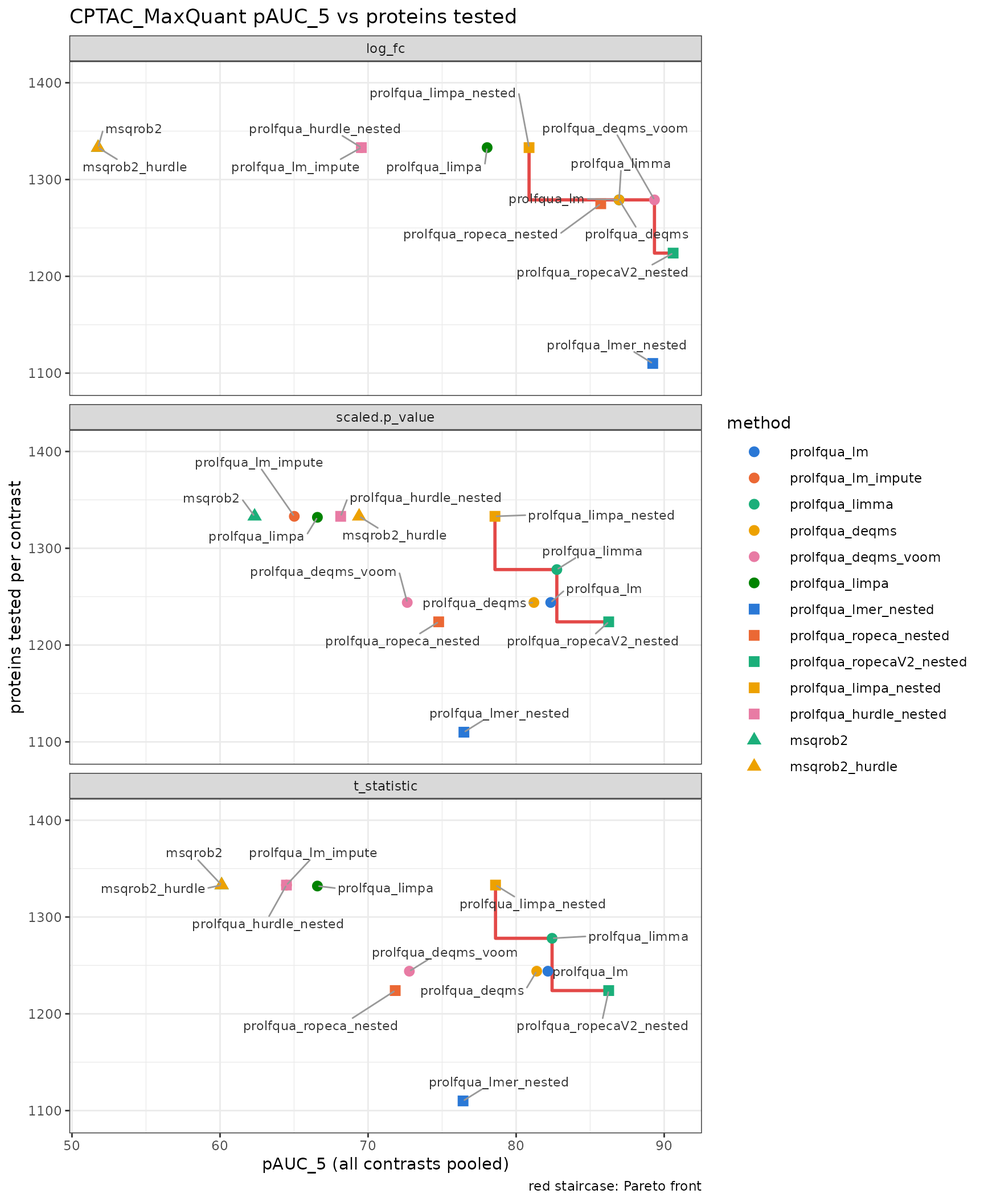
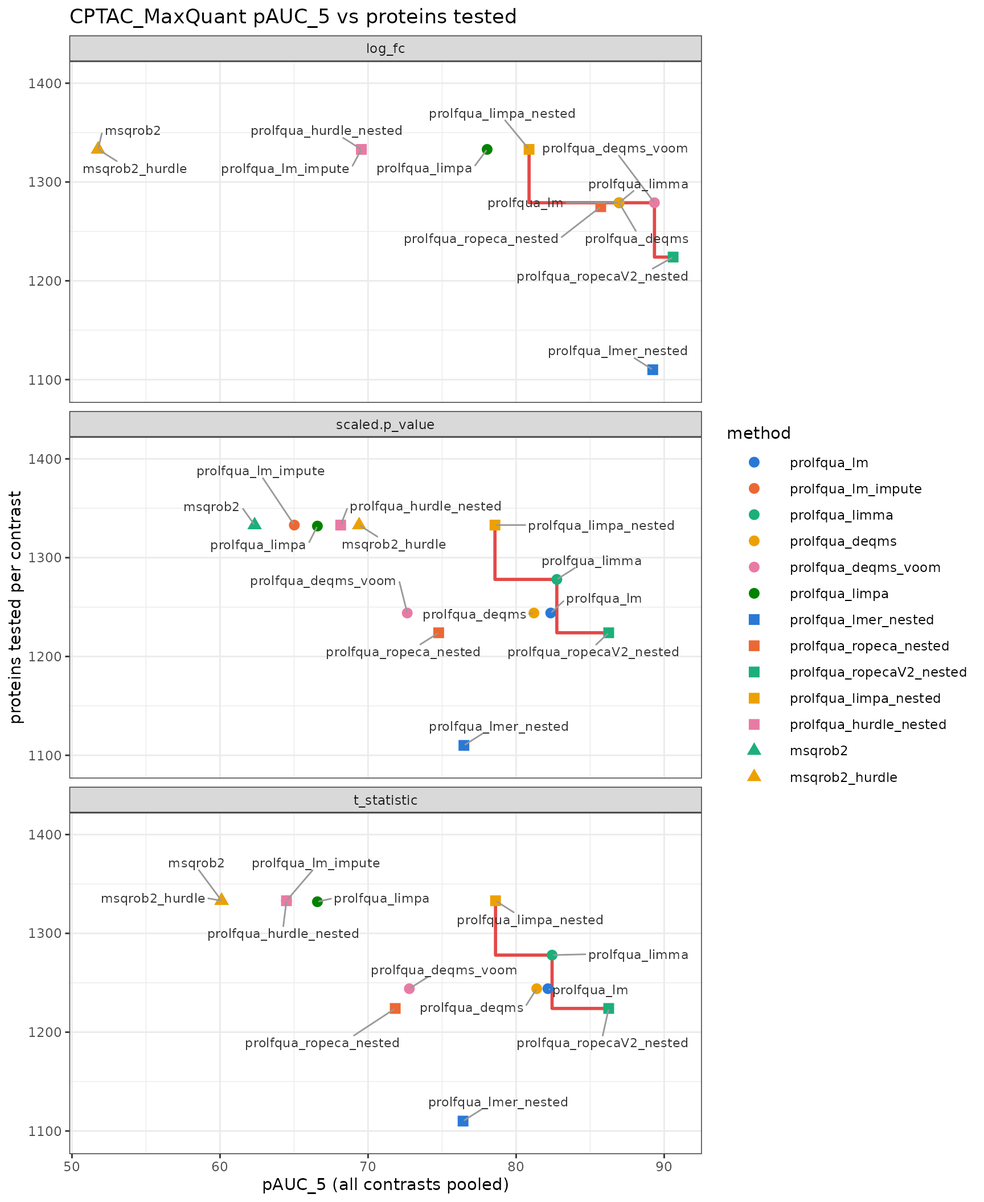
Deploying to gh-pages from @ prolfqua/prolfquabenchmark@442d6d65c62803b6adb22e1c96397cf4f99767e1 🚀

diff --git a/articles/Benchmark_results.html b/articles/Benchmark_results.html
@@ -92,41 +92,44 @@ Wolski</h4>
 
     
     
-<p>The benchmark pipeline (<code>make benchmark</code>,
+<p>The benchmark pipeline (<code>make benchmark</code>;
 <code>workflow/Snakefile</code>, <code>config/config.yaml</code>)
-prepares each dataset once, fits every method to it, and scores how well
-each method ranks the proteins with a known change (E. coli spiked into
-a human background in IonStar, UPS1 spiked into yeast in CPTAC) above
-the unchanged ones. This vignette reads only the tables the pipeline
-exports to <code>inst/extdata</code>.</p>
+prepares each dataset once, fits every method to the input it needs, and
+scores how well each method ranks proteins with a known change above
+unchanged ones: E. coli spiked into a human background in IonStar, UPS1
+spiked into yeast in CPTAC. The tables and figures come from the files
+the pipeline exports to <code>inst/extdata</code>, so this page renders
+without data downloads.</p>
 <ul>
-<li>Scores: AUC, partial AUC up to a false positive rate of 0.1
-(pAUC_10) on a 0–100 scale, all contrasts pooled, for the rankings by
-fold change (<code>log_fc</code>), t statistic
-(<code>t_statistic</code>) and p-value with the sign of the fold change
-(<code>scaled.p_value</code>)</li>
+<li>Ranking scores: fold change (<code>log_fc</code>), p-value signed by
+the fold change (<code>scaled.p_value</code>), t statistic
+(<code>t_statistic</code>)</li>
+<li>AUC, pAUC_5, pAUC_10: area under the ROC curve, and partial area up
+to a false positive rate of 0.05 or 0.1, on a 0 to 100 scale, with all
+contrasts of a dataset pooled</li>
+<li>Proteins tested: proteins with a result in a contrast, averaged over
+the contrasts. Each method is scored on the proteins it tests, so pAUC_5
+is plotted against this count, as in ProteoBench</li>
+<li>Pareto front (red): the methods no other method beats on both pAUC_5
+and proteins tested</li>
 <li>Level: <code>protein</code> (model fitted to protein abundances),
 <code>peptide</code> (model fitted to peptides, one result per protein),
 <code>protein + peptide</code> (hurdle: intensity on proteins, detection
 on peptides)</li>
-<li>FDP vs FDR: the false discovery proportion at each nominal FDR; on
-the diagonal the FDR is calibrated</li>
-<li>Proteins tested vs pAUC_5 (as in ProteoBench): each method scores
-only the proteins it tests, so the plot shows the partial AUC up to a
-false positive rate of 0.05 (x) against the number of proteins tested
-per contrast (y); best is top right, and the red staircase is the Pareto
-front: the methods no other method beats in both</li>
-<li>Line type and point shape: solid lines and circles for the prolfqua
-protein models, long dashes and squares for the prolfqua peptide models
-(nested and hurdle), short dashes and triangles for the external tools;
-a method has the same colour in every plot</li>
+<li>FDP vs FDR: the false discovery proportion at each nominal FDR; a
+calibrated FDR lies on the diagonal</li>
+<li>Encoding: solid lines and circles for prolfqua protein models, long
+dashes and squares for prolfqua peptide models (nested and hurdle),
+short dashes and triangles for external tools; each method keeps its
+colour in every figure</li>
 </ul>
 <div class="section level2">
 <h2 id="methods">Methods<a class="anchor" aria-label="anchor" href="#methods"></a>
 </h2>
 <table class="table">
-<caption>Fitted methods; fit_seconds: wall time of the fit job (jobs ran
-in parallel).</caption>
+<caption>Methods fitted to each dataset, with tool version, model level,
+the input the method fits and a short description. fit_seconds is the
+wall time of the fit job; jobs ran in parallel.</caption>
 <colgroup>
 <col width="11%">
 <col width="11%">
@@ -710,10 +713,27 @@ weighted by the number of peptides</li>
 <li>prolfqua peptide models and msqrob2: the normalized peptides
 (msqrob2 median-polishes them itself)</li>
 </ul>
-<img src="Benchmark_results_files/figure-html/unnamed-chunk-6-1.png" class="r-plt" alt="" width="864"><table class="table table table-condensed">
+<div class="figure">
+<img src="Benchmark_results_files/figure-html/unnamed-chunk-6-1.png" class="r-plt" alt="Ranking accuracy against the number of proteins tested on IonStar_MaxQuant. Each point is one method. x: pAUC_5, the partial area under the ROC curve up to a false positive rate of 0.05 (0 to 100), all 4 contrasts pooled; the ROC curve separates ECOLI proteins (changed) from HUMAN proteins (unchanged). y: proteins with a result, averaged over the contrasts. Panels rank proteins by fold change (log_fc), by p-value signed by the fold change (scaled.p_value) and by t statistic. Circles are prolfqua protein models, squares prolfqua peptide models, triangles external tools. The red staircase is the Pareto front: no other method has both a higher pAUC_5 and more proteins tested." width="864"><p class="caption">
+Ranking accuracy against the number of proteins tested on
+IonStar_MaxQuant. Each point is one method. x: pAUC_5, the partial area
+under the ROC curve up to a false positive rate of 0.05 (0 to 100), all
+4 contrasts pooled; the ROC curve separates ECOLI proteins (changed)
+from HUMAN proteins (unchanged). y: proteins with a result, averaged
+over the contrasts. Panels rank proteins by fold change (log_fc), by
+p-value signed by the fold change (scaled.p_value) and by t statistic.
+Circles are prolfqua protein models, squares prolfqua peptide models,
+triangles external tools. The red staircase is the Pareto front: no
+other method has both a higher pAUC_5 and more proteins tested.
+</p>
+</div>
+<table class="table table table-condensed">
 <caption>
-IonStar_MaxQuant: all contrasts pooled, sorted by pAUC_10 of
-scaled.p_value; contrasts computed: protein and contrast pairs with a
+Ranking scores on IonStar_MaxQuant, all 4 contrasts pooled, sorted by
+pAUC_10 of scaled.p_value. AUC is the area under the ROC curve and
+pAUC_10 the partial area up to a false positive rate of 0.1, both on a 0
+to 100 scale, for ranking by fold change, scaled p-value and t
+statistic. Contrasts computed: protein and contrast pairs with a
 p-value.
 </caption>
 <thead><tr>
@@ -1125,7 +1145,28 @@ protein
 </tr>
 </tbody>
 </table>
-<p><img src="Benchmark_results_files/figure-html/unnamed-chunk-7-1.png" class="r-plt" alt="" width="864"><img src="Benchmark_results_files/figure-html/unnamed-chunk-8-1.png" class="r-plt" alt="" width="864"></p>
+<div class="figure">
+<img src="Benchmark_results_files/figure-html/unnamed-chunk-7-1.png" class="r-plt" alt="ROC curves on IonStar_MaxQuant, all 4 contrasts pooled. y: fraction of ECOLI proteins (changed) ranked above a threshold, the true positive rate; x: fraction of HUMAN proteins (unchanged) above it, the false positive rate, shown up to 0.2. One curve per method; panels rank by fold change, scaled p-value and t statistic. Solid lines are prolfqua protein models, long dashes prolfqua peptide models, short dashes external tools." width="864"><p class="caption">
+ROC curves on IonStar_MaxQuant, all 4 contrasts pooled. y: fraction of
+ECOLI proteins (changed) ranked above a threshold, the true positive
+rate; x: fraction of HUMAN proteins (unchanged) above it, the false
+positive rate, shown up to 0.2. One curve per method; panels rank by
+fold change, scaled p-value and t statistic. Solid lines are prolfqua
+protein models, long dashes prolfqua peptide models, short dashes
+external tools.
+</p>
+</div>
+<div class="figure">
+<img src="Benchmark_results_files/figure-html/unnamed-chunk-8-1.png" class="r-plt" alt="Calibration of the FDR each method reports on IonStar_MaxQuant, all 4 contrasts pooled. x: nominal FDR threshold; y: fraction of HUMAN proteins (unchanged) among the proteins called significant at that threshold, the false discovery proportion. One curve per method, line types as in the ROC figure. A calibrated FDR lies on the grey diagonal; curves above it are anti-conservative, with more false discoveries than the FDR promises." width="864"><p class="caption">
+Calibration of the FDR each method reports on IonStar_MaxQuant, all 4
+contrasts pooled. x: nominal FDR threshold; y: fraction of HUMAN
+proteins (unchanged) among the proteins called significant at that
+threshold, the false discovery proportion. One curve per method, line
+types as in the ROC figure. A calibrated FDR lies on the grey diagonal;
+curves above it are anti-conservative, with more false discoveries than
+the FDR promises.
+</p>
+</div>
 </div>
 <div class="section level2">
 <h2 id="ionstar_maxquant_protein">IonStar_MaxQuant_protein<a class="anchor" aria-label="anchor" href="#ionstar_maxquant_protein"></a>
@@ -1140,10 +1181,27 @@ protein
 <li>Every method fits this protein table; the number of peptides weights
 the prolfqua fits and is the DEqMS count</li>
 </ul>
-<img src="Benchmark_results_files/figure-html/unnamed-chunk-9-1.png" class="r-plt" alt="" width="864"><table class="table table table-condensed">
+<div class="figure">
+<img src="Benchmark_results_files/figure-html/unnamed-chunk-9-1.png" class="r-plt" alt="Ranking accuracy against the number of proteins tested on IonStar_MaxQuant_protein. Each point is one method. x: pAUC_5, the partial area under the ROC curve up to a false positive rate of 0.05 (0 to 100), all 4 contrasts pooled; the ROC curve separates ECOLI proteins (changed) from HUMAN proteins (unchanged). y: proteins with a result, averaged over the contrasts. Panels rank proteins by fold change (log_fc), by p-value signed by the fold change (scaled.p_value) and by t statistic. Circles are prolfqua protein models, squares prolfqua peptide models, triangles external tools. The red staircase is the Pareto front: no other method has both a higher pAUC_5 and more proteins tested." width="864"><p class="caption">
+Ranking accuracy against the number of proteins tested on
+IonStar_MaxQuant_protein. Each point is one method. x: pAUC_5, the
+partial area under the ROC curve up to a false positive rate of 0.05 (0
+to 100), all 4 contrasts pooled; the ROC curve separates ECOLI proteins
+(changed) from HUMAN proteins (unchanged). y: proteins with a result,
+averaged over the contrasts. Panels rank proteins by fold change
+(log_fc), by p-value signed by the fold change (scaled.p_value) and by t
+statistic. Circles are prolfqua protein models, squares prolfqua peptide
+models, triangles external tools. The red staircase is the Pareto front:
+no other method has both a higher pAUC_5 and more proteins tested.
+</p>
+</div>
+<table class="table table table-condensed">
 <caption>
-IonStar_MaxQuant_protein: all contrasts pooled, sorted by pAUC_10 of
-scaled.p_value; contrasts computed: protein and contrast pairs with a
+Ranking scores on IonStar_MaxQuant_protein, all 4 contrasts pooled,
+sorted by pAUC_10 of scaled.p_value. AUC is the area under the ROC curve
+and pAUC_10 the partial area up to a false positive rate of 0.1, both on
+a 0 to 100 scale, for ranking by fold change, scaled p-value and t
+statistic. Contrasts computed: protein and contrast pairs with a
 p-value.
 </caption>
 <thead><tr>
@@ -1410,7 +1468,28 @@ protein
 </tr>
 </tbody>
 </table>
-<p><img src="Benchmark_results_files/figure-html/unnamed-chunk-10-1.png" class="r-plt" alt="" width="864"><img src="Benchmark_results_files/figure-html/unnamed-chunk-11-1.png" class="r-plt" alt="" width="864"></p>
+<div class="figure">
+<img src="Benchmark_results_files/figure-html/unnamed-chunk-10-1.png" class="r-plt" alt="ROC curves on IonStar_MaxQuant_protein, all 4 contrasts pooled. y: fraction of ECOLI proteins (changed) ranked above a threshold, the true positive rate; x: fraction of HUMAN proteins (unchanged) above it, the false positive rate, shown up to 0.2. One curve per method; panels rank by fold change, scaled p-value and t statistic. Solid lines are prolfqua protein models, long dashes prolfqua peptide models, short dashes external tools." width="864"><p class="caption">
+ROC curves on IonStar_MaxQuant_protein, all 4 contrasts pooled. y:
+fraction of ECOLI proteins (changed) ranked above a threshold, the true
+positive rate; x: fraction of HUMAN proteins (unchanged) above it, the
+false positive rate, shown up to 0.2. One curve per method; panels rank
+by fold change, scaled p-value and t statistic. Solid lines are prolfqua
+protein models, long dashes prolfqua peptide models, short dashes
+external tools.
+</p>
+</div>
+<div class="figure">
+<img src="Benchmark_results_files/figure-html/unnamed-chunk-11-1.png" class="r-plt" alt="Calibration of the FDR each method reports on IonStar_MaxQuant_protein, all 4 contrasts pooled. x: nominal FDR threshold; y: fraction of HUMAN proteins (unchanged) among the proteins called significant at that threshold, the false discovery proportion. One curve per method, line types as in the ROC figure. A calibrated FDR lies on the grey diagonal; curves above it are anti-conservative, with more false discoveries than the FDR promises." width="864"><p class="caption">
+Calibration of the FDR each method reports on IonStar_MaxQuant_protein,
+all 4 contrasts pooled. x: nominal FDR threshold; y: fraction of HUMAN
+proteins (unchanged) among the proteins called significant at that
+threshold, the false discovery proportion. One curve per method, line
+types as in the ROC figure. A calibrated FDR lies on the grey diagonal;
+curves above it are anti-conservative, with more false discoveries than
+the FDR promises.
+</p>
+</div>
 </div>
 <div class="section level2">
 <h2 id="ionstar_fragpipe_msstats">IonStar_FragPipe_MSstats<a class="anchor" aria-label="anchor" href="#ionstar_fragpipe_msstats"></a>
@@ -1429,10 +1508,27 @@ weighted by the number of peptides</li>
 peptides, its own dataProcess (log2, median equalization, Tukey median
 polish, imputation of censored values)</li>
 </ul>
-<img src="Benchmark_results_files/figure-html/unnamed-chunk-12-1.png" class="r-plt" alt="" width="864"><table class="table table table-condensed">
+<div class="figure">
+<img src="Benchmark_results_files/figure-html/unnamed-chunk-12-1.png" class="r-plt" alt="Ranking accuracy against the number of proteins tested on IonStar_FragPipe_MSstats. Each point is one method. x: pAUC_5, the partial area under the ROC curve up to a false positive rate of 0.05 (0 to 100), all 4 contrasts pooled; the ROC curve separates ECOLI proteins (changed) from HUMAN proteins (unchanged). y: proteins with a result, averaged over the contrasts. Panels rank proteins by fold change (log_fc), by p-value signed by the fold change (scaled.p_value) and by t statistic. Circles are prolfqua protein models, squares prolfqua peptide models, triangles external tools. The red staircase is the Pareto front: no other method has both a higher pAUC_5 and more proteins tested." width="864"><p class="caption">
+Ranking accuracy against the number of proteins tested on
+IonStar_FragPipe_MSstats. Each point is one method. x: pAUC_5, the
+partial area under the ROC curve up to a false positive rate of 0.05 (0
+to 100), all 4 contrasts pooled; the ROC curve separates ECOLI proteins
+(changed) from HUMAN proteins (unchanged). y: proteins with a result,
+averaged over the contrasts. Panels rank proteins by fold change
+(log_fc), by p-value signed by the fold change (scaled.p_value) and by t
+statistic. Circles are prolfqua protein models, squares prolfqua peptide
+models, triangles external tools. The red staircase is the Pareto front:
+no other method has both a higher pAUC_5 and more proteins tested.
+</p>
+</div>
+<table class="table table table-condensed">
 <caption>
-IonStar_FragPipe_MSstats: all contrasts pooled, sorted by pAUC_10 of
-scaled.p_value; contrasts computed: protein and contrast pairs with a
+Ranking scores on IonStar_FragPipe_MSstats, all 4 contrasts pooled,
+sorted by pAUC_10 of scaled.p_value. AUC is the area under the ROC curve
+and pAUC_10 the partial area up to a false positive rate of 0.1, both on
+a 0 to 100 scale, for ranking by fold change, scaled p-value and t
+statistic. Contrasts computed: protein and contrast pairs with a
 p-value.
 </caption>
 <thead><tr>
@@ -1873,7 +1969,28 @@ peptide
 </tr>
 </tbody>
 </table>
-<p><img src="Benchmark_results_files/figure-html/unnamed-chunk-13-1.png" class="r-plt" alt="" width="864"><img src="Benchmark_results_files/figure-html/unnamed-chunk-14-1.png" class="r-plt" alt="" width="864"></p>
+<div class="figure">
+<img src="Benchmark_results_files/figure-html/unnamed-chunk-13-1.png" class="r-plt" alt="ROC curves on IonStar_FragPipe_MSstats, all 4 contrasts pooled. y: fraction of ECOLI proteins (changed) ranked above a threshold, the true positive rate; x: fraction of HUMAN proteins (unchanged) above it, the false positive rate, shown up to 0.2. One curve per method; panels rank by fold change, scaled p-value and t statistic. Solid lines are prolfqua protein models, long dashes prolfqua peptide models, short dashes external tools." width="864"><p class="caption">
+ROC curves on IonStar_FragPipe_MSstats, all 4 contrasts pooled. y:
+fraction of ECOLI proteins (changed) ranked above a threshold, the true
+positive rate; x: fraction of HUMAN proteins (unchanged) above it, the
+false positive rate, shown up to 0.2. One curve per method; panels rank
+by fold change, scaled p-value and t statistic. Solid lines are prolfqua
+protein models, long dashes prolfqua peptide models, short dashes
+external tools.
+</p>
+</div>
+<div class="figure">
+<img src="Benchmark_results_files/figure-html/unnamed-chunk-14-1.png" class="r-plt" alt="Calibration of the FDR each method reports on IonStar_FragPipe_MSstats, all 4 contrasts pooled. x: nominal FDR threshold; y: fraction of HUMAN proteins (unchanged) among the proteins called significant at that threshold, the false discovery proportion. One curve per method, line types as in the ROC figure. A calibrated FDR lies on the grey diagonal; curves above it are anti-conservative, with more false discoveries than the FDR promises." width="864"><p class="caption">
+Calibration of the FDR each method reports on IonStar_FragPipe_MSstats,
+all 4 contrasts pooled. x: nominal FDR threshold; y: fraction of HUMAN
+proteins (unchanged) among the proteins called significant at that
+threshold, the false discovery proportion. One curve per method, line
+types as in the ROC figure. A calibrated FDR lies on the grey diagonal;
+curves above it are anti-conservative, with more false discoveries than
+the FDR promises.
+</p>
+</div>
 </div>
 <div class="section level2">
 <h2 id="ionstar_fragpipe_protein">IonStar_FragPipe_protein<a class="anchor" aria-label="anchor" href="#ionstar_fragpipe_protein"></a>
@@ -1887,10 +2004,27 @@ peptide
 <li>Every method fits this protein table; the number of unique peptides
 weights the prolfqua fits and is the DEqMS count</li>
 </ul>
-<img src="Benchmark_results_files/figure-html/unnamed-chunk-15-1.png" class="r-plt" alt="" width="864"><table class="table table table-condensed">
+<div class="figure">
+<img src="Benchmark_results_files/figure-html/unnamed-chunk-15-1.png" class="r-plt" alt="Ranking accuracy against the number of proteins tested on IonStar_FragPipe_protein. Each point is one method. x: pAUC_5, the partial area under the ROC curve up to a false positive rate of 0.05 (0 to 100), all 4 contrasts pooled; the ROC curve separates ECOLI proteins (changed) from HUMAN proteins (unchanged). y: proteins with a result, averaged over the contrasts. Panels rank proteins by fold change (log_fc), by p-value signed by the fold change (scaled.p_value) and by t statistic. Circles are prolfqua protein models, squares prolfqua peptide models, triangles external tools. The red staircase is the Pareto front: no other method has both a higher pAUC_5 and more proteins tested." width="864"><p class="caption">
+Ranking accuracy against the number of proteins tested on
+IonStar_FragPipe_protein. Each point is one method. x: pAUC_5, the
+partial area under the ROC curve up to a false positive rate of 0.05 (0
+to 100), all 4 contrasts pooled; the ROC curve separates ECOLI proteins
+(changed) from HUMAN proteins (unchanged). y: proteins with a result,
+averaged over the contrasts. Panels rank proteins by fold change
+(log_fc), by p-value signed by the fold change (scaled.p_value) and by t
+statistic. Circles are prolfqua protein models, squares prolfqua peptide
+models, triangles external tools. The red staircase is the Pareto front:
+no other method has both a higher pAUC_5 and more proteins tested.
+</p>
+</div>
+<table class="table table table-condensed">
 <caption>
-IonStar_FragPipe_protein: all contrasts pooled, sorted by pAUC_10 of
-scaled.p_value; contrasts computed: protein and contrast pairs with a
+Ranking scores on IonStar_FragPipe_protein, all 4 contrasts pooled,
+sorted by pAUC_10 of scaled.p_value. AUC is the area under the ROC curve
+and pAUC_10 the partial area up to a false positive rate of 0.1, both on
+a 0 to 100 scale, for ranking by fold change, scaled p-value and t
+statistic. Contrasts computed: protein and contrast pairs with a
 p-value.
 </caption>
 <thead><tr>
@@ -2157,7 +2291,28 @@ protein
 </tr>
 </tbody>
 </table>
-<p><img src="Benchmark_results_files/figure-html/unnamed-chunk-16-1.png" class="r-plt" alt="" width="864"><img src="Benchmark_results_files/figure-html/unnamed-chunk-17-1.png" class="r-plt" alt="" width="864"></p>
+<div class="figure">
+<img src="Benchmark_results_files/figure-html/unnamed-chunk-16-1.png" class="r-plt" alt="ROC curves on IonStar_FragPipe_protein, all 4 contrasts pooled. y: fraction of ECOLI proteins (changed) ranked above a threshold, the true positive rate; x: fraction of HUMAN proteins (unchanged) above it, the false positive rate, shown up to 0.2. One curve per method; panels rank by fold change, scaled p-value and t statistic. Solid lines are prolfqua protein models, long dashes prolfqua peptide models, short dashes external tools." width="864"><p class="caption">
+ROC curves on IonStar_FragPipe_protein, all 4 contrasts pooled. y:
+fraction of ECOLI proteins (changed) ranked above a threshold, the true
+positive rate; x: fraction of HUMAN proteins (unchanged) above it, the
+false positive rate, shown up to 0.2. One curve per method; panels rank
+by fold change, scaled p-value and t statistic. Solid lines are prolfqua
+protein models, long dashes prolfqua peptide models, short dashes
+external tools.
+</p>
+</div>
+<div class="figure">
+<img src="Benchmark_results_files/figure-html/unnamed-chunk-17-1.png" class="r-plt" alt="Calibration of the FDR each method reports on IonStar_FragPipe_protein, all 4 contrasts pooled. x: nominal FDR threshold; y: fraction of HUMAN proteins (unchanged) among the proteins called significant at that threshold, the false discovery proportion. One curve per method, line types as in the ROC figure. A calibrated FDR lies on the grey diagonal; curves above it are anti-conservative, with more false discoveries than the FDR promises." width="864"><p class="caption">
+Calibration of the FDR each method reports on IonStar_FragPipe_protein,
+all 4 contrasts pooled. x: nominal FDR threshold; y: fraction of HUMAN
+proteins (unchanged) among the proteins called significant at that
+threshold, the false discovery proportion. One curve per method, line
+types as in the ROC figure. A calibrated FDR lies on the grey diagonal;
+curves above it are anti-conservative, with more false discoveries than
+the FDR promises.
+</p>
+</div>
 </div>
 <div class="section level2">
 <h2 id="cptac_maxquant">CPTAC_MaxQuant<a class="anchor" aria-label="anchor" href="#cptac_maxquant"></a>
@@ -2173,11 +2328,27 @@ weighted by the number of peptides</li>
 <li>prolfqua peptide models and msqrob2: the normalized peptides
 (msqrob2 median-polishes them itself)</li>
 </ul>
-<img src="Benchmark_results_files/figure-html/unnamed-chunk-18-1.png" class="r-plt" alt="" width="864"><table class="table table table-condensed">
+<div class="figure">
+<img src="Benchmark_results_files/figure-html/unnamed-chunk-18-1.png" class="r-plt" alt="Ranking accuracy against the number of proteins tested on CPTAC_MaxQuant. Each point is one method. x: pAUC_5, the partial area under the ROC curve up to a false positive rate of 0.05 (0 to 100), one contrast; the ROC curve separates UPS proteins (changed) from YEAST proteins (unchanged). y: proteins with a result, averaged over the contrasts. Panels rank proteins by fold change (log_fc), by p-value signed by the fold change (scaled.p_value) and by t statistic. Circles are prolfqua protein models, squares prolfqua peptide models, triangles external tools. The red staircase is the Pareto front: no other method has both a higher pAUC_5 and more proteins tested." width="864"><p class="caption">
+Ranking accuracy against the number of proteins tested on
+CPTAC_MaxQuant. Each point is one method. x: pAUC_5, the partial area
+under the ROC curve up to a false positive rate of 0.05 (0 to 100), one
+contrast; the ROC curve separates UPS proteins (changed) from YEAST
+proteins (unchanged). y: proteins with a result, averaged over the
+contrasts. Panels rank proteins by fold change (log_fc), by p-value
+signed by the fold change (scaled.p_value) and by t statistic. Circles
+are prolfqua protein models, squares prolfqua peptide models, triangles
+external tools. The red staircase is the Pareto front: no other method
+has both a higher pAUC_5 and more proteins tested.
+</p>
+</div>
+<table class="table table table-condensed">
 <caption>
-CPTAC_MaxQuant: all contrasts pooled, sorted by pAUC_10 of
-scaled.p_value; contrasts computed: protein and contrast pairs with a
-p-value.
+Ranking scores on CPTAC_MaxQuant, one contrast, sorted by pAUC_10 of
+scaled.p_value. AUC is the area under the ROC curve and pAUC_10 the
+partial area up to a false positive rate of 0.1, both on a 0 to 100
+scale, for ranking by fold change, scaled p-value and t statistic.
+Contrasts computed: protein and contrast pairs with a p-value.
 </caption>
 <thead><tr>
 <th style="text-align:left;">
@@ -2588,7 +2759,27 @@ protein
 </tr>
 </tbody>
 </table>
-<p><img src="Benchmark_results_files/figure-html/unnamed-chunk-19-1.png" class="r-plt" alt="" width="864"><img src="Benchmark_results_files/figure-html/unnamed-chunk-20-1.png" class="r-plt" alt="" width="864"></p>
+<div class="figure">
+<img src="Benchmark_results_files/figure-html/unnamed-chunk-19-1.png" class="r-plt" alt="ROC curves on CPTAC_MaxQuant, one contrast. y: fraction of UPS proteins (changed) ranked above a threshold, the true positive rate; x: fraction of YEAST proteins (unchanged) above it, the false positive rate, shown up to 0.2. One curve per method; panels rank by fold change, scaled p-value and t statistic. Solid lines are prolfqua protein models, long dashes prolfqua peptide models, short dashes external tools." width="864"><p class="caption">
+ROC curves on CPTAC_MaxQuant, one contrast. y: fraction of UPS proteins
+(changed) ranked above a threshold, the true positive rate; x: fraction
+of YEAST proteins (unchanged) above it, the false positive rate, shown
+up to 0.2. One curve per method; panels rank by fold change, scaled
+p-value and t statistic. Solid lines are prolfqua protein models, long
+dashes prolfqua peptide models, short dashes external tools.
+</p>
+</div>
+<div class="figure">
+<img src="Benchmark_results_files/figure-html/unnamed-chunk-20-1.png" class="r-plt" alt="Calibration of the FDR each method reports on CPTAC_MaxQuant, one contrast. x: nominal FDR threshold; y: fraction of YEAST proteins (unchanged) among the proteins called significant at that threshold, the false discovery proportion. One curve per method, line types as in the ROC figure. A calibrated FDR lies on the grey diagonal; curves above it are anti-conservative, with more false discoveries than the FDR promises." width="864"><p class="caption">
+Calibration of the FDR each method reports on CPTAC_MaxQuant, one
+contrast. x: nominal FDR threshold; y: fraction of YEAST proteins
+(unchanged) among the proteins called significant at that threshold, the
+false discovery proportion. One curve per method, line types as in the
+ROC figure. A calibrated FDR lies on the grey diagonal; curves above it
+are anti-conservative, with more false discoveries than the FDR
+promises.
+</p>
+</div>
 </div>
   </div>
 

diff --git a/news/index.html b/news/index.html
@@ -63,7 +63,7 @@
     <div class="section level2">
 <h2 class="page-header" data-toc-text="0.3.4" id="prolfquabenchmark-034">prolfquabenchmark 0.3.4<a class="anchor" aria-label="anchor" href="#prolfquabenchmark-034"></a></h2>
 <ul><li><p>The benchmarks run in a Snakemake pipeline (<code>workflow/Snakefile</code>, <code>config/config.yaml</code>; <code>make benchmark</code>) instead of in the vignettes. Each dataset is one input file (IonStar MaxQuant peptides.txt and proteinGroups.txt, IonStar FragPipe MSstats.csv and combined_protein.tsv, CPTAC study 6 peptides.txt) and is prepared once, every method (prolfqua facades, MSstats, proDA, msqrob2) is fitted to every dataset that provides its input (peptides, proteins, the search software’s protein table or MSstats’ feature table; the external tools take only their own input, never the proteins prolfqua aggregated) and scored, and the results are exported to <code>inst/extdata</code>. Snakemake comes from a uv environment (<code>pyproject.toml</code>).</p></li>
-<li><p>New vignette <code>Benchmark_results</code>: per dataset its preprocessing steps (from <code>config/config.yaml</code>, exported as <code>benchmark_preprocessing.tsv</code>), the scores of every method with the number of contrasts it computed, ROC curves up to a false positive rate of 0.2, the partial AUC up to a false positive rate of 0.05 (<code>pAUC_5</code>, new column of <code>benchmark_scores.tsv</code>) against the number of proteins tested (as in ProteoBench, first in each section; points labelled with the method, ggrepel in Suggests; the Pareto front drawn) and the false discovery proportion against the nominal FDR. Solid lines and circles mark the prolfqua protein models, long dashes and squares the prolfqua peptide models, short dashes and triangles the external tools; a method has the same colour in every plot. The analysis vignettes <code>Benchmark_prolfqua</code>, <code>Benchmark_MSStats</code>, <code>Benchmark_proDA</code>, <code>Benchmark_msqrob2</code>, <code>Benchmark_hurdle</code> and <code>Benchmark_ropeca</code> and the studies <code>Benchmark_null_split</code>, <code>Benchmark_pipeline_demo</code>, <code>Benchmark_Model_IonStar_With2Factors</code> and <code>SqueezeVar_comparison</code> are removed.</p></li>
+<li><p>New vignette <code>Benchmark_results</code>: per dataset its preprocessing steps (from <code>config/config.yaml</code>, exported as <code>benchmark_preprocessing.tsv</code>), the scores of every method with the number of contrasts it computed, ROC curves up to a false positive rate of 0.2, the partial AUC up to a false positive rate of 0.05 (<code>pAUC_5</code>, new column of <code>benchmark_scores.tsv</code>) against the number of proteins tested (as in ProteoBench, first in each section; points labelled with the method, ggrepel in Suggests; the Pareto front drawn) and the false discovery proportion against the nominal FDR. Every figure and table has a caption naming the metric, the axes, the encoding and the changed and unchanged proteins (new columns <code>positive</code> and <code>negative</code> of <code>benchmark_datasets.tsv</code>). Solid lines and circles mark the prolfqua protein models, long dashes and squares the prolfqua peptide models, short dashes and triangles the external tools; a method has the same colour in every plot. The analysis vignettes <code>Benchmark_prolfqua</code>, <code>Benchmark_MSStats</code>, <code>Benchmark_proDA</code>, <code>Benchmark_msqrob2</code>, <code>Benchmark_hurdle</code> and <code>Benchmark_ropeca</code> and the studies <code>Benchmark_null_split</code>, <code>Benchmark_pipeline_demo</code>, <code>Benchmark_Model_IonStar_With2Factors</code> and <code>SqueezeVar_comparison</code> are removed.</p></li>
 <li><p>New vignette <code>Score_history</code> with the scores and step timings of each recorded prolfqua release: one table per dataset with a row per model and release, MSstats, proDA and msqrob2 with their latest scores only, the changes between consecutive releases above 0.5 points (AUC, pAUC, AP) or in counts, and the elapsed time of transform, aggregate, lm fit, contrasts and the lm, limma, lm_impute and rlm facades. <code>make score-history</code> appends the pipeline’s scores and timings for the installed prolfqua (<code>REPLACE=1</code> reruns a recorded version). The history starts with prolfqua 1.6.2 and 1.9.0, rerun with the benchmark vignettes of their time (<code>inst/scripts/prefill_score_history.sh</code>), and was relabelled to the pipeline’s dataset and method names with the model level (<code>inst/scripts/migrate_score_history.R</code>).</p></li>
 <li><p>The hurdle model is benchmarked as prolfqua’s <code>hurdle_nested</code> facade (<code>prolfqua_hurdle_nested</code>); the hand-built variants <code>hurdle_binomial</code>, <code>hurdle_binomial_firth_unbound</code> and <code>hurdle_binomial_firth_df4</code> are dropped (Firth against plain binomial detection and msqrob2’s combination rule changed the scores by less than 0.2 points; without the dispersion bound the ranking was worse). New method <code>msqrob2_protein</code>: msqrob2 without its detection model, fitted to the search software’s protein table (MaxQuant LFQ intensities, FragPipe combined_protein.tsv).</p></li>
 <li><p>prolfqua models are named <code>prolfqua_&lt;facade&gt;</code>: <code>prolfqua_lm</code>, <code>prolfqua_lm_impute</code>, <code>prolfqua_limma</code>, <code>prolfqua_deqms</code>, <code>prolfqua_deqms_voom</code> and <code>prolfqua_limpa</code> on proteins, <code>prolfqua_lmer_nested</code>, <code>prolfqua_ropeca_nested</code>, <code>prolfqua_ropecaV2_nested</code>, <code>prolfqua_limpa_nested</code> and <code>prolfqua_hurdle_nested</code> on peptides; DEqMS and limpa are new. The former <code>prolfqua_lm</code> (<code>lm_missing</code>, now in prolfquatakeoutmissing) is dropped from the benchmark and the score history; prolfquabenchmark no longer uses prolfquatakeoutmissing.</p></li>

diff --git a/index.html b/index.html
@@ -115,7 +115,7 @@
 <h2 id="installation">Installation<a class="anchor" aria-label="anchor" href="#installation"></a>
 </h2>
 <div class="sourceCode" id="cb2"><pre class="downlit sourceCode r">
-<code class="sourceCode R"><span><span class="fu">remotes</span><span class="fu">::</span><span class="fu">install_github</span><span class="op">(</span><span class="st">"prolfqua/prolfquabenchmark"</span>, dependencies <span class="op">=</span> <span class="cn">TRUE</span><span class="op">)</span></span></code></pre></div>
+<code class="sourceCode R"><span><span class="fu">remotes</span><span class="fu">::</span><span class="fu"><a href="https://remotes.r-lib.org/reference/install_github.html" class="external-link">install_github</a></span><span class="op">(</span><span class="st">"prolfqua/prolfquabenchmark"</span>, dependencies <span class="op">=</span> <span class="cn">TRUE</span><span class="op">)</span></span></code></pre></div>
 </div>
 </div>
   </div>
